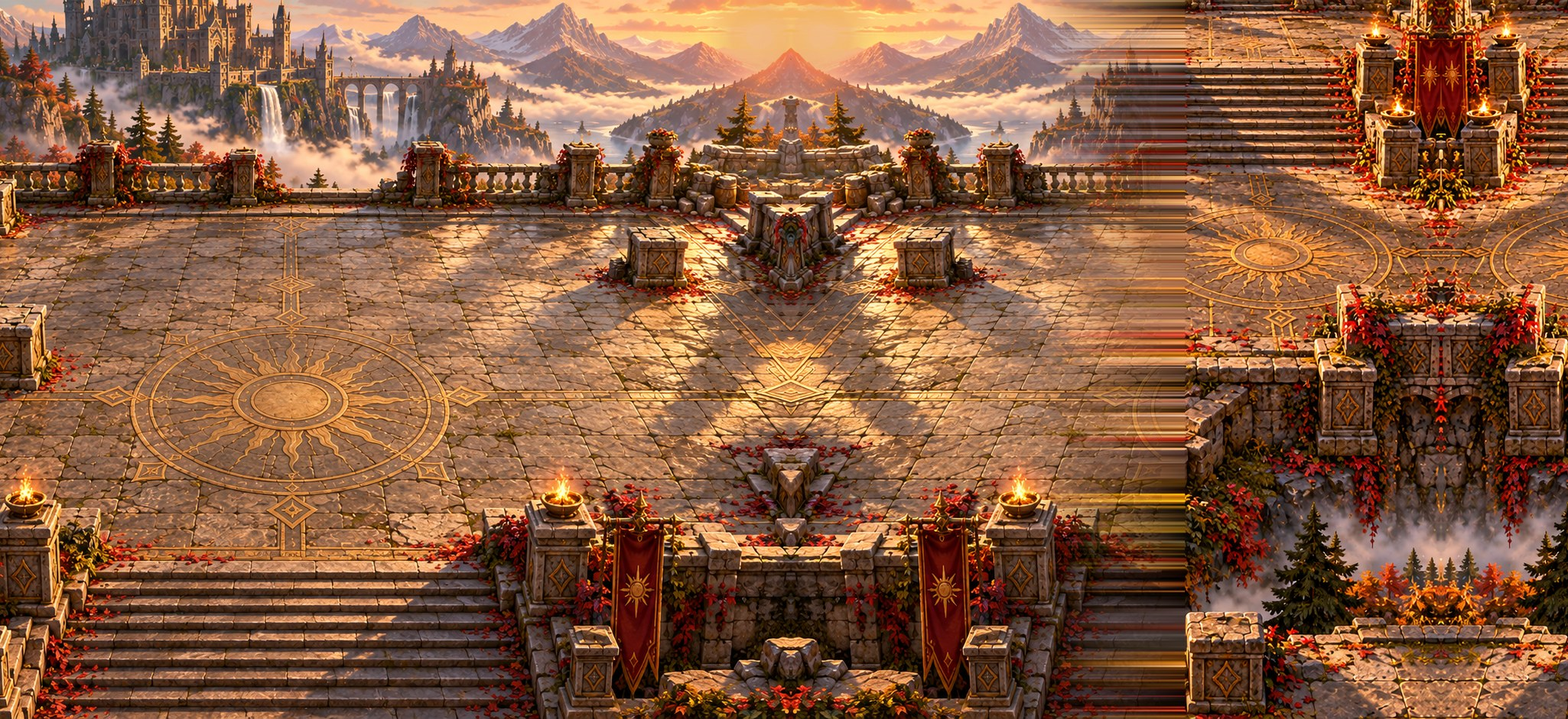
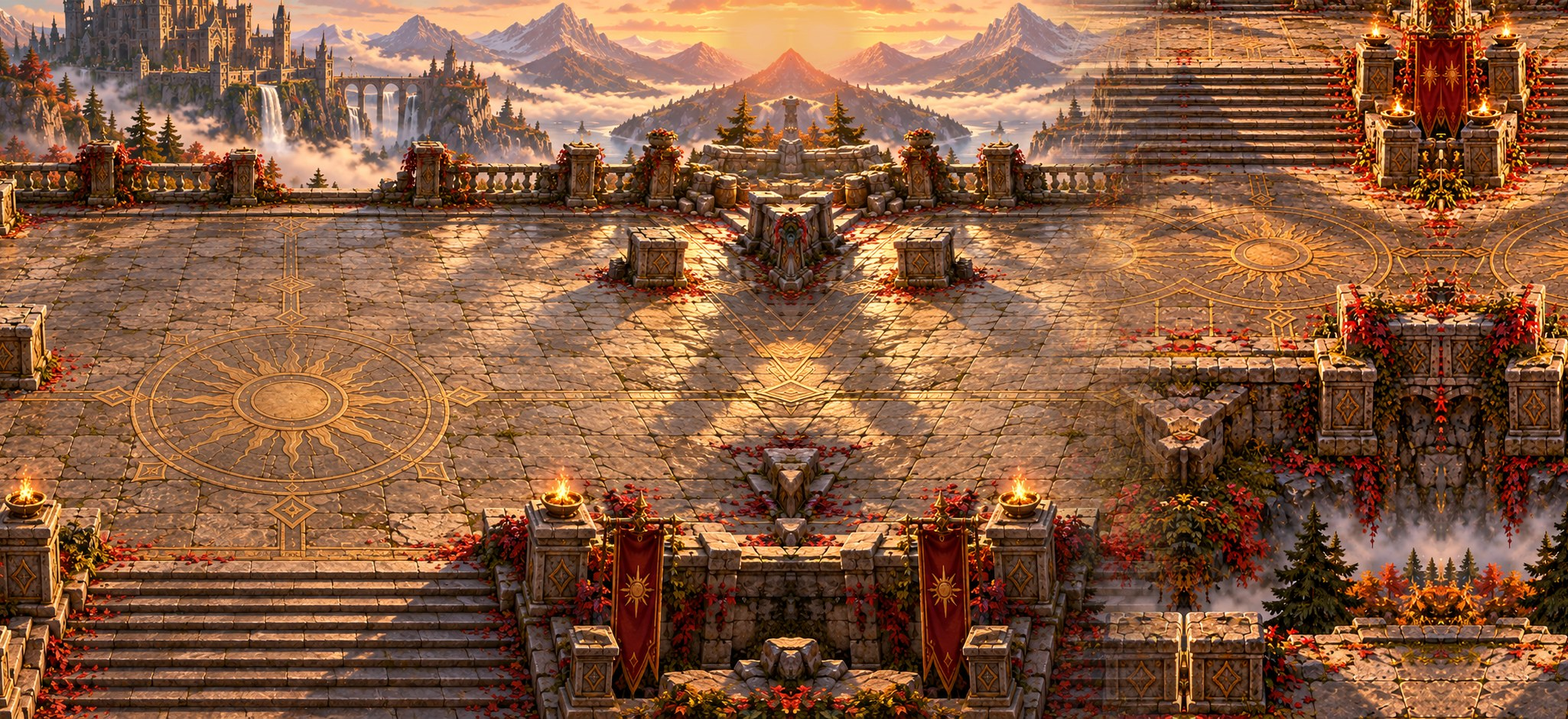
Open world stand-in joins: folded reflection instead of stretched columns (no smears) until GPT's paintings
Claude-Session: https://claude.ai/code/session_01AxppULVYpyTE4fFMuEDiRu

Changed region(s): [[0.6556, 0.0, 0.7805, 1.0]]

diff --git a/tools/world/strip.py b/tools/world/strip.py
@@ -66,11 +66,13 @@ def canvas(a, b, gap, ea, eb):
 
 
 def standin(req, M):
-  """No painting yet: each side mirrored into the gap, crossfaded in the middle."""
+  """No painting yet: each side reflected into the gap (folding back and forth, never stretched), crossfaded in the middle."""
   cw = req.shape[1]; cols = np.where(M[0] > 0)[0]; l, r = int(cols[0]), int(cols[-1]) + 1
   out = req.copy(); mid = (l + r) / 2
+  def fold(i, n):  # 0..n-1 back and forth
+    i %= 2 * n; return i if i < n else 2 * n - 1 - i
   for x in range(l, r):
-    xa = max(0, 2 * l - x - 1); xb = min(cw - 1, 2 * r - x - 1)
+    xa = l - 1 - fold(x - l, l); xb = r + fold(r - 1 - x, cw - r)
     t = np.clip((x - (mid - 100)) / 200, 0, 1)
     out[:, x] = req[:, xa] * (1 - t) + req[:, xb] * t
   return out
